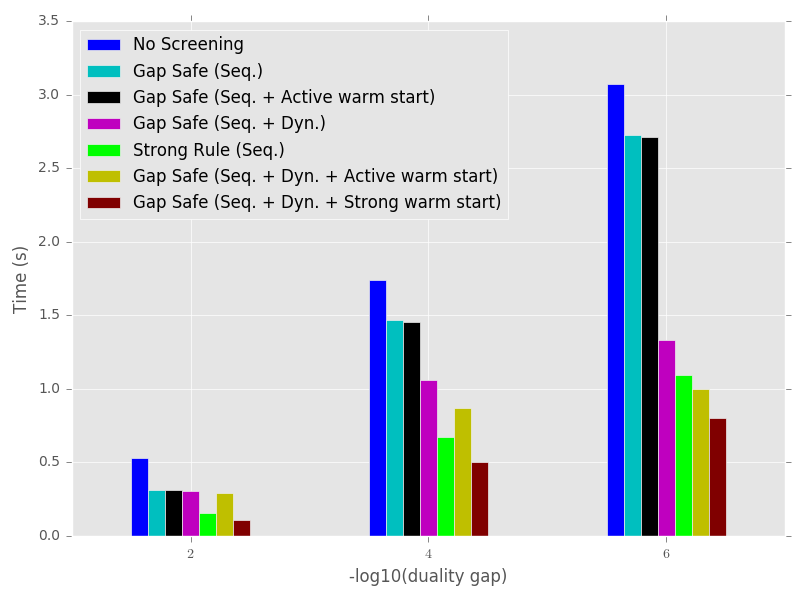
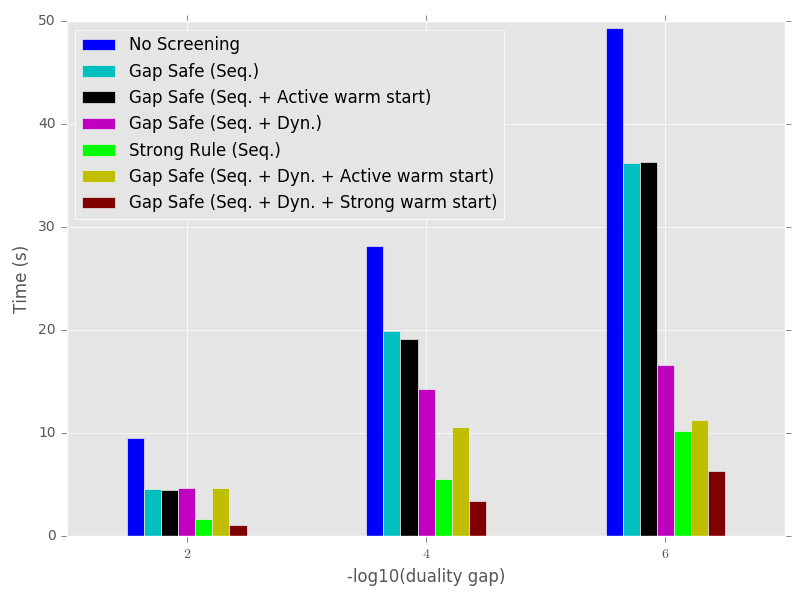
more features on the toy example

diff --git a/example.py b/example.py
@@ -9,14 +9,14 @@ import matplotlib.pyplot as plt
 plt.close('all')
 plt.style.use('ggplot')
 
-X, y = make_classification(n_samples=50, n_features=300, n_classes=2,
+X, y = make_classification(n_samples=100, n_features=1000, n_classes=2,
                            random_state=414)
 X = X.astype(float)
 y = y.astype(float)
 
 eps = 1e-3  # the smaller it is the longer is the path
 lambda_max = np.linalg.norm(np.dot(X.T, 0.5 - y), ord=np.inf)
-n_lambdas = 50
+n_lambdas = 100
 lambda_ratio = eps ** (1. / (n_lambdas - 1))
 lambdas = lambda_max * (lambda_ratio ** np.arange(n_lambdas))
 
@@ -27,7 +27,7 @@ GAPSAFE = 2
 GAPSAFE_SEQ_pp = 3
 GAPSAFE_pp = 4
 STRONG_RULE = 10
-SAFE_STRONG_RULE = 666
+STRONG_GAP_SAFE = 666
 
 seq = " (Seq.)"
 seq_dyn = " (Seq. + Dyn.)"

diff --git a/README.md b/README.md
@@ -1,6 +1,6 @@
 # Gap Safe screening rules for sparsity enforcing penalties.
 
-This package implements coordinate descent with Gap Safe screening rules https://arxiv.org/abs/1611.05780
+This package implements coordinate descent with Gap Safe screening rules. See our paper https://arxiv.org/abs/1611.05780 for more details.
 
 
 # Example in binary classification with sparse logistic regression
@@ -15,14 +15,14 @@ import matplotlib.pyplot as plt
 plt.close('all')
 plt.style.use('ggplot')
 
-X, y = make_classification(n_samples=50, n_features=300, n_classes=2,
+X, y = make_classification(n_samples=100, n_features=1000, n_classes=2,
                            random_state=414)
 X = X.astype(float)
 y = y.astype(float)
 
 eps = 1e-3  # the smaller it is the longer is the path
 lambda_max = np.linalg.norm(np.dot(X.T, 0.5 - y), ord=np.inf)
-n_lambdas = 50
+n_lambdas = 100
 lambda_ratio = eps ** (1. / (n_lambdas - 1))
 lambdas = lambda_max * (lambda_ratio ** np.arange(n_lambdas))
 
